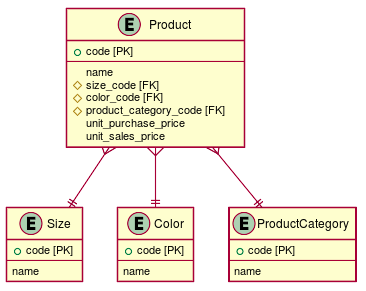
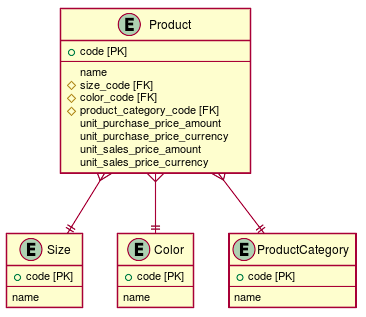
商品モデルの実装 #EFROR-77
・シンプルな商品モデルMoneyオブジェクト追加

diff --git a/spec/models/sales_modeling/product_spec.rb b/spec/models/sales_modeling/product_spec.rb
@@ -15,31 +15,64 @@ RSpec.describe SalesModeling::Product, type: :model do
 
   let(:jan) { SalesModeling::JANCode.new('1234567890123')}
 
-  let(:product_a) { { code:jan.code,name:'商品A',size:s,color:blue, product_category:special } }
-  let(:product_b) { { code:jan.code,name:'商品B',size:m,color:black, product_category:normal } }
-  let(:product_c) { { code:jan.code,name:'商品C',size:l,color:red, product_category:null } }
+  let(:hundredYen) { SalesModeling::Money.new(100)}
+  let(:tenDollar) { SalesModeling::Money.new(10,'$')}
+  let(:notSet) { SalesModeling::Money.new(nil,nil)}
+
+  let(:product_a) { {
+      code:jan.code,name:'商品A',
+      size:s,
+      color:blue,
+      product_category:special,
+      unit_purchase_price_amount:hundredYen.amount,
+      unit_purchase_price_currency:hundredYen.currency,
+      unit_sales_price_amount:hundredYen.+(SalesModeling::Money.new(100)).amount,
+      unit_sales_price_currency:hundredYen.+(SalesModeling::Money.new(100)).currency
+  }}
+  let(:product_b) { {
+      code:jan.code,
+      name:'商品B',
+      size:m,
+      color:black,
+      product_category:normal,
+      unit_purchase_price_amount:tenDollar.amount,
+      unit_purchase_price_currency:tenDollar.currency,
+      unit_sales_price_amount:tenDollar.+(SalesModeling::Money.new(10,'$')).amount,
+      unit_sales_price_currency:tenDollar.+(SalesModeling::Money.new(10,'$')).currency
+  } }
+  let(:product_c) { {
+      code:jan.code,
+      name:'商品C',
+      size:l,
+      color:red,
+      product_category:null,
+  } }
 
   describe '#save!' do
-    example '商品A サイズ:S・カラー:青・商品区分:特価の商品' do
+    example '商品A サイズ:S・カラー:青・商品区分:特価の商品 仕入単価:100円 販売単価:200円' do
       product = SalesModeling::Product.new
       product.name = '商品A'
       product.jan = jan
       product.size = s
       product.color = blue
       product.product_category = special
+      product.unit_purchase_price = hundredYen
+      product.unit_sales_price = hundredYen.+(SalesModeling::Money.new(100))
       product.save!
 
       new_product = SalesModeling::Product.first
       check(new_product,product_a)
     end
 
-    example '商品B サイズ:M・カラー:黒・商品区分:定価の商品' do
+    example '商品B サイズ:M・カラー:黒・商品区分:定価の商品 仕入単価:10ドル 販売単価:20ドル' do
       product = SalesModeling::Product.new({
         name: '商品B',
         jan: jan,
         size: m,
         color: black,
-        product_category: normal
+        product_category: normal,
+        unit_purchase_price: tenDollar,
+        unit_sales_price: tenDollar.+(SalesModeling::Money.new(10,'$'))
       })
       product.save!
 
@@ -47,8 +80,16 @@ RSpec.describe SalesModeling::Product, type: :model do
       check(new_product,product_b)
     end
 
-    example '商品C サイズ:L・カラー:赤・商品区分:無し' do
-      product = { code:jan.code,name:'商品C',size:l,color:red, product_category:null }
+    example '商品C サイズ:L・カラー:赤・商品区分:無し 単価未設定' do
+      product = {
+          code:jan.code,
+          name:'商品C',
+          size:l,
+          color:red,
+          product_category:null,
+          unit_purchase_price: notSet,
+          unit_sales_price: notSet
+      }
       product = SalesModeling::Product.new(product)
       product.save!
 
@@ -85,5 +126,9 @@ def check(new_product,check_product)
   expect(new_product.size.name).to eq check_product[:size].name
   expect(new_product.color.name).to eq check_product[:color].name
   expect(new_product.product_category.name).to eq check_product[:product_category].name
+  expect(new_product.unit_purchase_price_amount).to eq check_product[:unit_purchase_price_amount]
+  expect(new_product.unit_purchase_price_currency).to eq check_product[:unit_purchase_price_currency]
+  expect(new_product.unit_sales_price_amount).to eq check_product[:unit_sales_price_amount]
+  expect(new_product.unit_sales_price_currency).to eq check_product[:unit_sales_price_currency]
 end
 

diff --git a/app/models/sales_modeling/product.rb b/app/models/sales_modeling/product.rb
@@ -8,8 +8,10 @@
 #  sales_modeling_size_id             :integer
 #  sales_modeling_color_id            :integer
 #  sales_modeling_product_category_id :integer
-#  unit_purchase_price                :decimal(10, )                          # 仕入単価
-#  unit_sales_price                   :decimal(10, )                          # 販売単価
+#  unit_purchase_price_amount         :decimal(10, )                          # 仕入単価
+#  unit_purchase_price_currency       :string(255)                            # 仕入単価通貨
+#  unit_sales_price_amount            :decimal(10, )                          # 販売単価
+#  unit_sales_price_currency          :string(255)                            # 販売単価通貨
 #  created_at                         :datetime         not null
 #  updated_at                         :datetime         not null
 #
@@ -62,5 +64,23 @@ class SalesModeling::Product < ApplicationRecord
 
   def product_category
     self.sales_modeling_product_category
+  end
+
+  def unit_purchase_price
+    @unit_purchase_price ||= SalesModeling::Money.new(self.unit_purchase_price_amount)
+  end
+
+  def unit_purchase_price=(money)
+    self.unit_purchase_price_amount = money.amount
+    self.unit_purchase_price_currency = money.currency
+  end
+
+  def unit_sales_price
+    @unit_sales_price ||= SalesModeling::Money.new(self.unit_sales_price_amount)
+  end
+
+  def unit_sales_price=(money)
+    self.unit_sales_price_amount = money.amount
+    self.unit_sales_price_currency = money.currency
   end
 end

diff --git a/db/migrate/20171030055452_create_sales_modeling_products.rb b/db/migrate/20171030055452_create_sales_modeling_products.rb
@@ -6,8 +6,10 @@ class CreateSalesModelingProducts < ActiveRecord::Migration[5.1]
       t.references :sales_modeling_size, foreign_key: true, index: {name:'index_sales_modeling_on_size_id'}
       t.references :sales_modeling_color, foreign_key: true, index: {name:'index_sales_modeling_on_color_id'}
       t.references :sales_modeling_product_category, foreign_key: true, index: {name:'index_sales_modeling_on_product_category_id'}
-      t.decimal :unit_purchase_price, comment:'仕入単価'
-      t.decimal :unit_sales_price, comment:'販売単価'
+      t.decimal :unit_purchase_price_amount, comment:'仕入単価'
+      t.string :unit_purchase_price_currency, comment:'仕入単価通貨'
+      t.decimal :unit_sales_price_amount, comment:'販売単価'
+      t.string :unit_sales_price_currency, comment:'販売単価通貨'
 
       t.timestamps
     end

diff --git a/db/schema.rb b/db/schema.rb
@@ -373,8 +373,10 @@ ActiveRecord::Schema.define(version: 20171030055452) do
     t.bigint "sales_modeling_size_id"
     t.bigint "sales_modeling_color_id"
     t.bigint "sales_modeling_product_category_id"
-    t.decimal "unit_purchase_price", precision: 10, comment: "仕入単価"
-    t.decimal "unit_sales_price", precision: 10, comment: "販売単価"
+    t.decimal "unit_purchase_price_amount", precision: 10, comment: "仕入単価"
+    t.string "unit_purchase_price_currency", comment: "仕入単価通貨"
+    t.decimal "unit_sales_price_amount", precision: 10, comment: "販売単価"
+    t.string "unit_sales_price_currency", comment: "販売単価通貨"
     t.datetime "created_at", null: false
     t.datetime "updated_at", null: false
     t.index ["sales_modeling_color_id"], name: "index_sales_modeling_on_color_id"

diff --git a/app/models/sales_modeling/money.rb b/app/models/sales_modeling/money.rb
@@ -1,0 +1,25 @@
+class SalesModeling::Money
+  attr_reader :amount, :currency
+
+  def initialize(amount, currency = "JPY")
+    @amount = amount
+    @currency = currency
+  end
+
+  def ==(other)
+    amount == other.amount && currency == other.currency
+  end
+
+  def +(other)
+    raise "Currency is different" unless currency == other.currency
+
+    SalesModeling::Money.new(amount + other.amount, currency)
+  end
+
+  def -(other)
+    raise "Currency is different" unless currency == other.currency
+    raise "Other money is bigger than self" if amount < other.amount
+
+    SalesModeling::Money.new(amount - other.amount, currency)
+  end
+end

diff --git a/app/models/sales_modeling/jan_code.rb b/app/models/sales_modeling/jan_code.rb
@@ -15,6 +15,6 @@ class SalesModeling::JANCode
   end
 
   def valid?
-    raise unless @code.length == 13
+    raise "Not JAN code format" unless @code.length == 13
   end
 end

diff --git a/docs/dev/sales_modeling/simple_product_.md b/docs/dev/sales_modeling/simple_product_.md
@@ -7,15 +7,15 @@ SalesModeling
 ## 分析モデル
   
 
-![](assets/29814634b37d876b69ac99006d75fb210.png?0.6829049201598165)  
+![](assets/29814634b37d876b69ac99006d75fb210.png?0.45270219836863634)  
 ## 設計モデル
   
 
-![](assets/29814634b37d876b69ac99006d75fb211.png?0.13988046947345967)  
+![](assets/29814634b37d876b69ac99006d75fb211.png?0.9344557091625927)  
 ## ERモデル
   
 
-![](assets/29814634b37d876b69ac99006d75fb212.png?0.15940943603052293)  
+![](assets/29814634b37d876b69ac99006d75fb212.png?0.3215964421335884)  
 `Product`
 ```rb
 # == Schema Information
@@ -28,8 +28,10 @@ SalesModeling
 #  sales_modeling_size_id             :integer
 #  sales_modeling_color_id            :integer
 #  sales_modeling_product_category_id :integer
-#  unit_purchase_price                :decimal(10, )                          # 仕入単価
-#  unit_sales_price                   :decimal(10, )                          # 販売単価
+#  unit_purchase_price_amount         :decimal(10, )                          # 仕入単価
+#  unit_purchase_price_currency       :string(255)                            # 仕入単価通貨
+#  unit_sales_price_amount            :decimal(10, )                          # 販売単価
+#  unit_sales_price_currency          :string(255)                            # 販売単価通貨
 #  created_at                         :datetime         not null
 #  updated_at                         :datetime         not null
 #
@@ -82,6 +84,10 @@ class SalesModeling::Product < ApplicationRecord
   
   def product_category
     self.sales_modeling_product_category
+  end
+  
+  def unit_purchase_price
+    @unit_purchase_price ||= SalesModeling::JANCode.new(self.code)
   end
 end
   
@@ -159,7 +165,35 @@ class SalesModeling::JANCode
   end
   
   def valid?
-    raise unless @code.length == 13
+    raise "Not JAN code format" unless @code.length == 13
+  end
+end
+```  
+`Money`
+```rb
+class SalesModeling::Money
+  attr_reader :amount, :currency
+  
+  def initialize(amount, currency = "JPY")
+    @amount = amount
+    @currency = currency
+  end
+  
+  def ==(other)
+    amount == other.amount && currency == other.currency
+  end
+  
+  def +(other)
+    raise "Currency is different" unless currency == other.currency
+  
+    SalesModeling::Money.new(amount + other.amount, currency)
+  end
+  
+  def -(other)
+    raise "Currency is different" unless currency == other.currency
+    raise "Other money is bigger than self" if amount < other.amount
+  
+    SalesModeling::Money.new(amount - other.amount, currency)
   end
 end
 ```  

diff --git a/docs/dev/sales_modeling/simple_product.md b/docs/dev/sales_modeling/simple_product.md
@@ -31,14 +31,13 @@ class 商品区分 {
 ## 設計モデル
 ```puml
 class Product {
-  code
+  jan
   name
   size
   color
   product_category
   unit_purchase_price
   unit_sales_price
-  jan
 }
 class Size {
   code
@@ -59,11 +58,15 @@ class JANCode {
   check_digit
   valid?()
 }
-
+class Money {
+  amount
+  currency
+}
 Product --ro Size
 Product -o Color
 Product --o ProductCategory
 Product o-- JANCode
+Product o-- Money
 ```
 ## ERモデル
 ```puml
@@ -74,8 +77,10 @@ entity Product {
   # size_code [FK]
   # color_code [FK]
   # product_category_code [FK]
-  unit_purchase_price
-  unit_sales_price
+  unit_purchase_price_amount
+  unit_purchase_price_currency
+  unit_sales_price_amount
+  unit_sales_price_currency  
 }
 entity Size {
   + code [PK]
@@ -106,3 +111,5 @@ Product }-do-|| ProductCategory
 @import "../../../app/models/sales_modeling/product_category.rb"
 `JANCode`
 @import "../../../app/models/sales_modeling/jan_code.rb"
+`Money`
+@import "../../../app/models/sales_modeling/money.rb"
